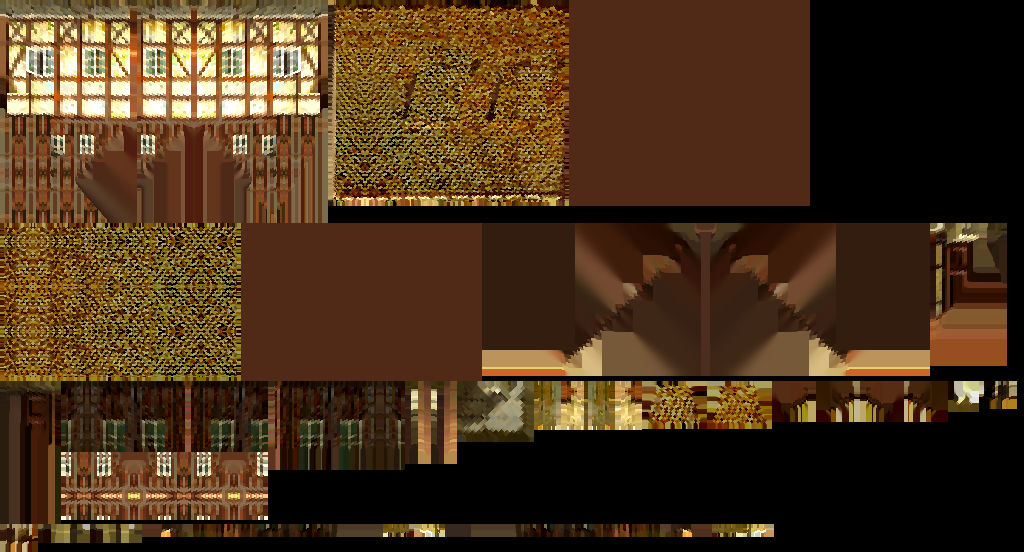
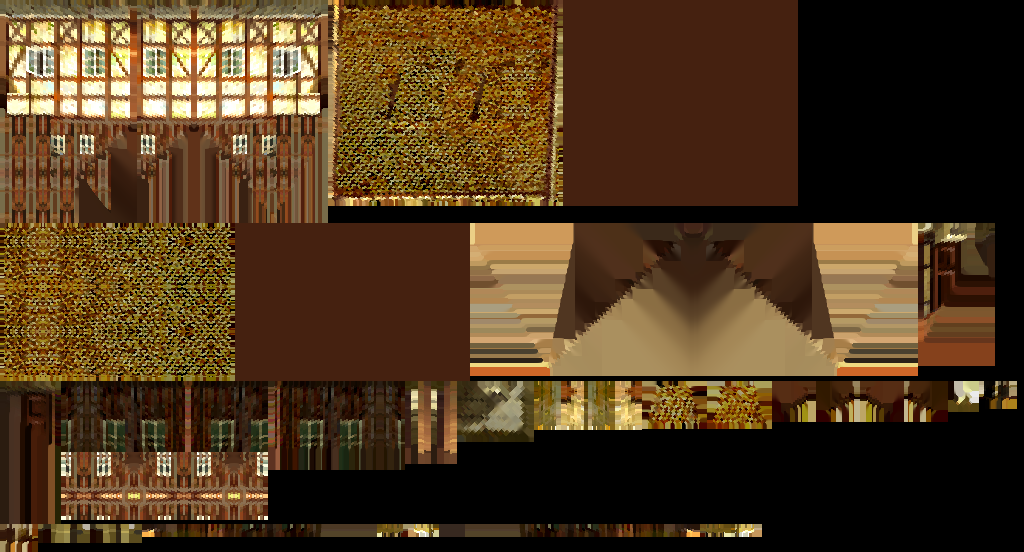
fix(bk-views): e_house01's roof runs where its picture shows it
The roof ran -10 to 107, set too far forward over the 2003 picture while the dormers and chimney stayed in place. It now runs -2 to 112, the best outline on the picture, and is read with the same geometry, so the strip that filled the old near end is gone. Both e_house01 hand models share these numbers.

diff --git a/tools/house_model/e_house01_3.py b/tools/house_model/e_house01_3.py
@@ -222,15 +222,6 @@ for f in SEEN_FACES:
         f.tex[:] = np.array([60, 45, 35]) / shade(f.n)
     f.seen[:] = True
 
-# The roof's new strip at the near end: the picture's light rim moves out to the new edge and clean slope fills behind it.
-q = front.world()
-y_ = q[..., 1]
-rim_src = front.lookup(np.stack([q[..., 0], y_ + (PIC_Y0 - ROOF_Y0), q[..., 2]], -1))
-# the strip continues the slope beside it, mirrored, so its tone runs on (a far strip of tile showed as a green band)
-tile_src = front.lookup(np.stack([q[..., 0], np.where(y_ < 7.0, 14.0 - y_, y_), q[..., 2]], -1))
-front.tex[y_ < 7.0] = tile_src[y_ < 7.0]
-front.tex[y_ < ROOF_Y0 + 2.5] = rim_src[y_ < ROOF_Y0 + 2.5]
-
 # The picture lights each dormer's near slope far beyond what its sun gives; the light is computed, so half of the way to the main slope's tone keeps it reading as lit at turn 0.
 main_tone = (front.tex.reshape(-1, 3) @ [.3, .6, .1]).mean()
 for w, r, c, a, b, m in dfaces:

diff --git a/tools/house_model/e_house01_1.py b/tools/house_model/e_house01_1.py
@@ -219,15 +219,6 @@ for f in SEEN_FACES:
         f.tex[:] = np.array([60, 45, 35]) / shade(f.n)
     f.seen[:] = True
 
-# The roof's new strip at the near end: the picture's light rim moves out to the new edge and clean slope fills behind it.
-q = front.world()
-y_ = q[..., 1]
-rim_src = front.lookup(np.stack([q[..., 0], y_ + (PIC_Y0 - ROOF_Y0), q[..., 2]], -1))
-# the strip continues the slope beside it, mirrored, so its tone runs on (a far strip of tile showed as a green band)
-tile_src = front.lookup(np.stack([q[..., 0], np.where(y_ < 7.0, 14.0 - y_, y_), q[..., 2]], -1))
-front.tex[y_ < 7.0] = tile_src[y_ < 7.0]
-front.tex[y_ < ROOF_Y0 + 2.5] = rim_src[y_ < ROOF_Y0 + 2.5]
-
 # The picture paints a dark band on the gable under the back of its roof. It reads as a hole in the roof once turned (the
 # maintainer, 2026-11-02), so the back half of the gable takes the lit boards of its other half instead.
 q = near.world()

diff --git a/tools/house_model/house01.py b/tools/house_model/house01.py
@@ -1,9 +1,9 @@
 """The body and roof the e_house01 relatives share, as measured on e_house01_1's picture."""
 # The roof profile, measured on the picture: apex, front eave and back eave.
-# The picture's roof runs -3 to 108. Turned, its dark gable band reads as a leak and the far end hangs too far (the maintainer,
-# 2026-11-02), so the built roof runs -9 to 105. Pixels are still read with the picture's geometry.
-PIC_Y0, PIC_Y1 = -3.0, 108.0
-ROOF_Y0, ROOF_Y1 = -10.0, 107.0
+# The roof runs -2 to 112: the best outline against the picture, with the dormers and chimney where they are. A roof at -10 to 107
+# read as set too far forward over the picture (the maintainer, 2026-11-03). Built and read with the same geometry.
+PIC_Y0, PIC_Y1 = -2.0, 112.0
+ROOF_Y0, ROOF_Y1 = PIC_Y0, PIC_Y1
 XE, XR, XB = 3.0, -67.7, -105.3
 ZE, ZR, ZBE = 38.0, 108.0, 42.9
 SLAB = 3.0

diff --git a/docs/superpowers/specs/2026-11-02-hand-model-from-picture.md b/docs/superpowers/specs/2026-11-02-hand-model-from-picture.md
@@ -148,6 +148,7 @@ A picture can hide proportions that look wrong from elsewhere. These took the re
 | Turns 1, 2 | Leak in the roof | Painted band on the gable, near end too short | Remove the paint; near overhang 3 to 10 |
 | Turns 2, 3 | Overhang too short, then too long | Far overhang 8, then 5 | 7 |
 | Turn 0 | Second gable window hidden | Near overhang 12 | 10 is the limit |
+| Turn 0 in a paint template | Roof set too far forward over the picture | Roof -10 to 107 | -2 to 112, the best outline on the picture; the overhangs above no longer apply (2026-11-03) |
 
 Overhang moves things at a known rate: a roof edge pushed out by a unit moves on screen by 0.71 across and 0.35 down, and it
 covers whatever wall lies behind that line. Work out what it will hide before raising it. Note where the body passes the 2003
@@ -188,8 +189,8 @@ Something thin and cut out by alpha (a fence, a sign) may stay one flat face wit
 ## Still to do
 
 - The `.obj` beside the renders has not been checked by `bk-map validate-obj2mod`; `model3d` writes the `.mod` from the fixture.
-- Turn 0 from the model loses the picture's sharpness, and the outline overlap drops to 0.94 on this house because its body and roof
-  are deliberately larger. It is the maintainer's to judge in the Game.
+- Turn 0 from the model loses the picture's sharpness, and the outline overlap is 0.97 on this house because its body is
+  deliberately longer. It is the maintainer's to judge in the Game.
 - `model3d`'s `model.json` still names the old mesh's kind and outline for a hand variant; its atlas and triangle numbers are the hand model's.
 - Winter (`1w`) atlases for families that have them (a fixture has only `_1.png`), the maintainer's look at the damage states, and the
   passability question above.
